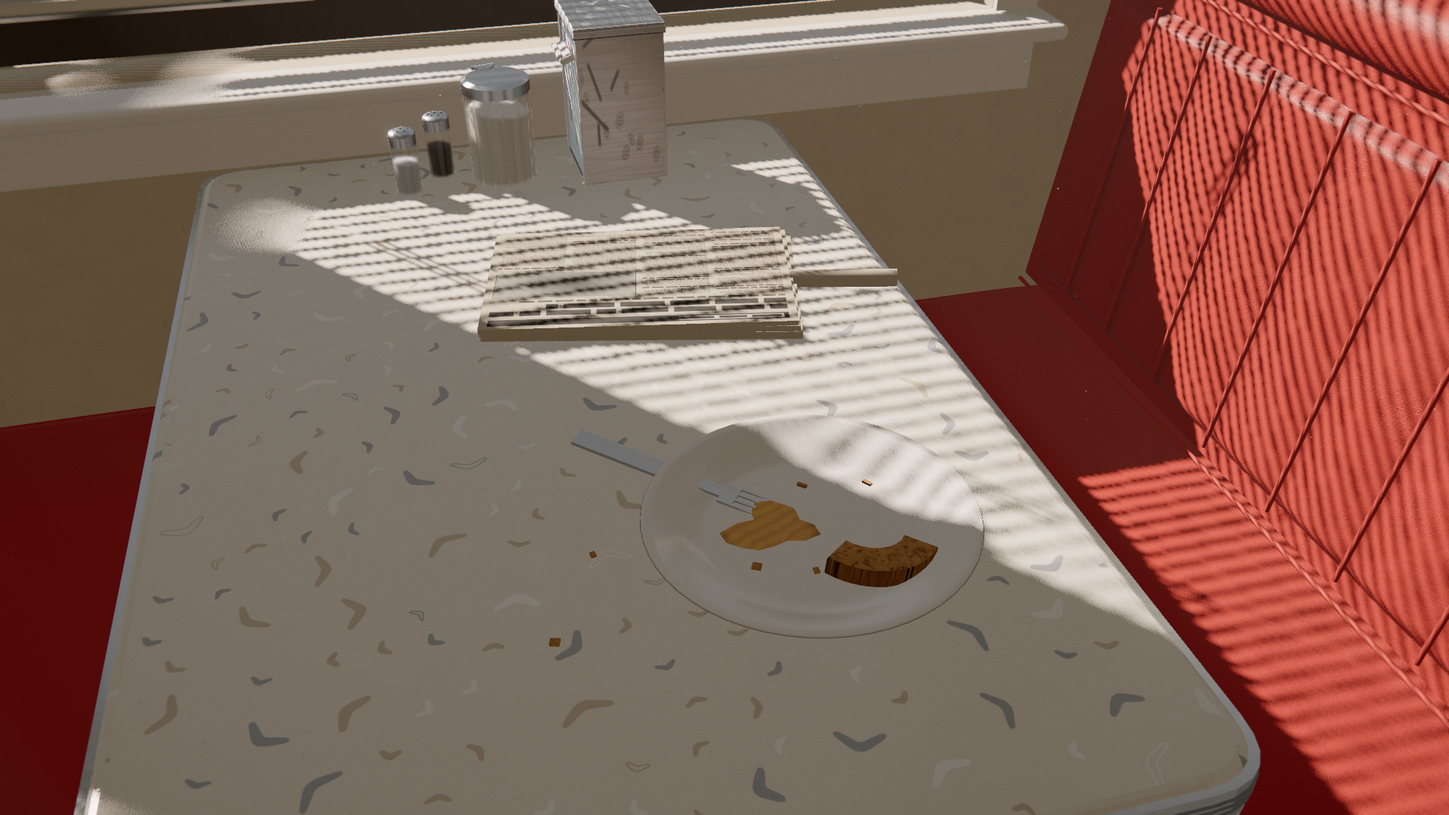
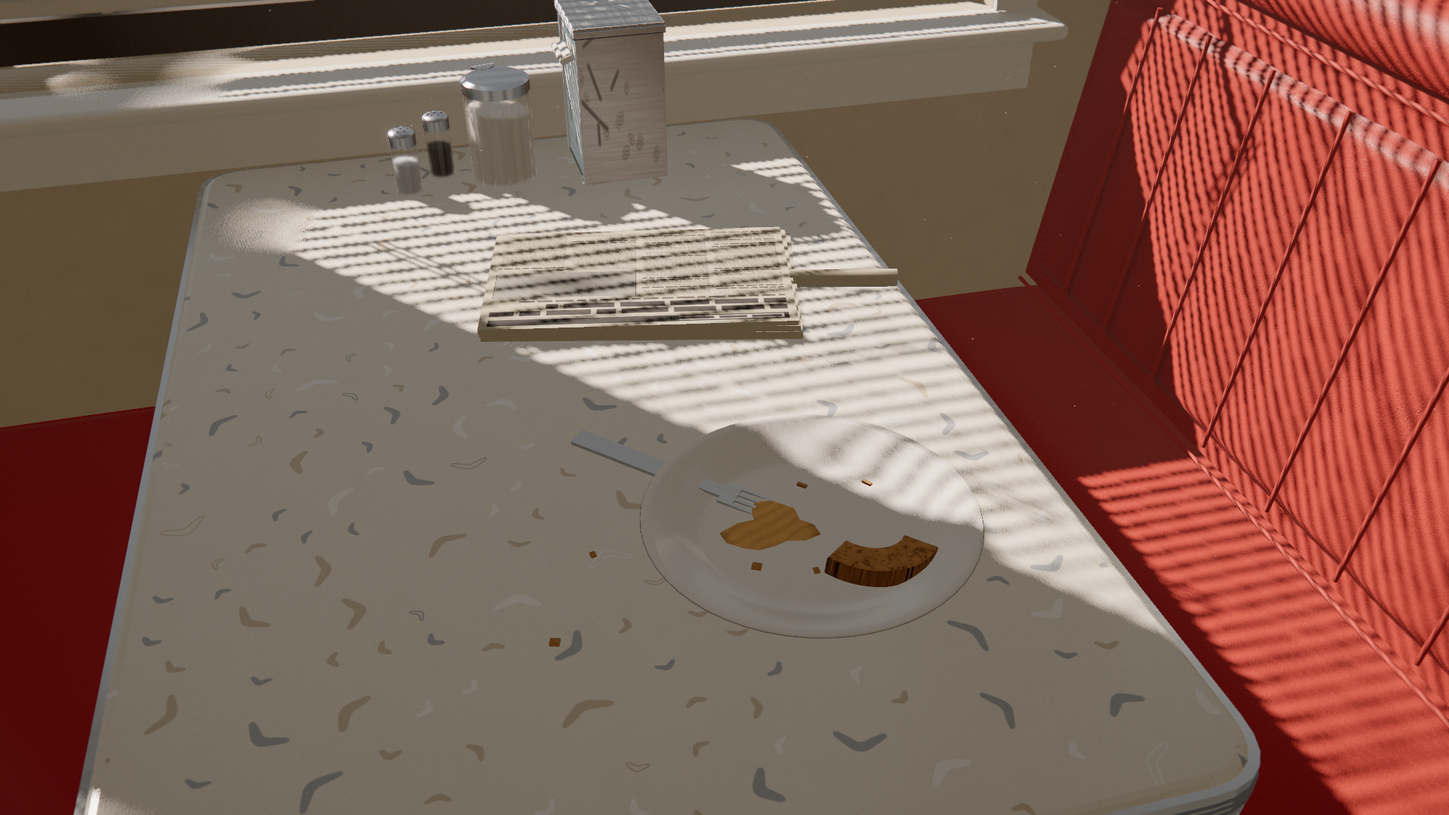
sys9: draw-call budget (6 own meshes: kitchen leaf single-bucket, lipstick via atlas strip, hosted band/foot), cabinet reveal + chrome pulls, kitchen-door velocity-continuous release, ragged apron blots, capture cameras, BUILD.md System 9 section/status/lessons, frames

diff --git a/src/scene/Openables.ts b/src/scene/Openables.ts
@@ -7,9 +7,11 @@
  * behind the kitchen door — goes into the shared `statics` builder and is appended to
  * the scene's existing material buckets (core/mergeInto.ts), so it costs no draw calls.
  * Only the leaves are their own meshes, each hung on a hinge Group the interactions
- * rotate: a laminate slab + chrome wire pull per cabinet door, and two for the kitchen
- * leaf (vertex-coloured paint + dark lite, and the stainless plates). A 4 mm dark reveal
- * on the die face frames the cabinet pair so it reads in the flat service-side light.
+ * rotate: a laminate slab + chrome wire pull per cabinet door, and one vertex-coloured
+ * mesh for the kitchen leaf (paint, dark lite, grey plates, dark pivots) — six own draw
+ * calls in all (twelve in poses where the transmission pass draws the opaques twice).
+ * A 4 mm dark reveal on the die face frames the cabinet pair so it reads in the flat
+ * service-side light.
  *
  * Hinge conventions (rotation.y, radians, positive = the leaf's free edge toward -z):
  *   cabinet left   hinge at the bay's -x edge, leaf along +x, opens toward the aisle (+z) → NEGATIVE angles
@@ -118,7 +120,7 @@ function buildCabinet(parent: THREE.Group, pal: Palette, s: MergedBuilder): [Hin
     const top = shelfY + t;
     s.rbox(pal.napkin, [bx - bw / 2, top, bz - bd / 2], [bx + bw / 2, top + bh, bz + bd / 2], 0.002);
     // Printed band and a brown "coffee filters" block on the front face, 0.5 mm proud.
-    s.box(pal.orangeBand, [bx - bw / 2 - 0.0005, top + 0.045, bz - bd / 2 - 0.0005], [bx + bw / 2 + 0.0005, top + 0.075, bz + bd / 2 + 0.0005]);
+    s.box(pal.darkSeal, [bx - bw / 2 - 0.0005, top + 0.045, bz - bd / 2 - 0.0005], [bx + bw / 2 + 0.0005, top + 0.075, bz + bd / 2 + 0.0005]);
     s.box(pal.trayBrown, [bx - 0.06, top + 0.09, bz + bd / 2], [bx + 0.06, top + 0.125, bz + bd / 2 + 0.0006]);
     // Filters: a squat fluted cylinder standing proud of the open top.
     const filters = new THREE.CylinderGeometry(0.058, 0.05, 0.05, 36, 1, false);
@@ -222,22 +224,28 @@ function buildKitchenDoor(parent: THREE.Group, pal: Palette, s: MergedBuilder): 
   const port = new THREE.BoxGeometry(vw, vh, 0.044);
   port.translate(cx, vy, 0);
   b.add(tint(port, 0x17181a), leafMat);
-  // Stainless: lite frame both faces, 8" kick plates both faces, push plates at 0.9 m both faces.
-  const st = pal.stainless;
+  // Lite frame both faces, 8" kick plates both faces, push plates at 0.9 m both faces — all in
+  // the leaf's vertex-coloured material (a light satin grey reads as the aluminium plates from
+  // the aisle; a real stainless bucket would be a second draw call on a moving mesh).
+  const plate = (a: readonly [number, number, number], c: readonly [number, number, number]) => {
+    const g = new THREE.BoxGeometry(c[0] - a[0], c[1] - a[1], c[2] - a[2]);
+    g.translate((a[0] + c[0]) / 2, (a[1] + c[1]) / 2, (a[2] + c[2]) / 2);
+    b.add(tint(g, 0xc4c8cc), leafMat);
+  };
   const vf = 0.02;
   for (const [za, zb] of [[-0.024, -0.02], [0.02, 0.024]] as const) {
-    b.rbox(st, [cx - vw / 2 - vf, vy - vh / 2 - vf, za], [cx + vw / 2 + vf, vy - vh / 2, zb], 0.001);
-    b.rbox(st, [cx - vw / 2 - vf, vy + vh / 2, za], [cx + vw / 2 + vf, vy + vh / 2 + vf, zb], 0.001);
-    b.rbox(st, [cx - vw / 2 - vf, vy - vh / 2, za], [cx - vw / 2, vy + vh / 2, zb], 0.001);
-    b.rbox(st, [cx + vw / 2, vy - vh / 2, za], [cx + vw / 2 + vf, vy + vh / 2, zb], 0.001);
-    b.rbox(st, [0.03, 0.03, za], [w - 0.03, 0.233, zb], 0.001);
-    b.rbox(st, [0.05, 0.9, za], [w - 0.05, 0.96, zb], 0.001);
+    plate([cx - vw / 2 - vf, vy - vh / 2 - vf, za], [cx + vw / 2 + vf, vy - vh / 2, zb]);
+    plate([cx - vw / 2 - vf, vy + vh / 2, za], [cx + vw / 2 + vf, vy + vh / 2 + vf, zb]);
+    plate([cx - vw / 2 - vf, vy - vh / 2, za], [cx - vw / 2, vy + vh / 2, zb]);
+    plate([cx + vw / 2, vy - vh / 2, za], [cx + vw / 2 + vf, vy + vh / 2, zb]);
+    plate([0.03, 0.03, za], [w - 0.03, 0.233, zb]);
+    plate([0.05, 0.9, za], [w - 0.05, 0.96, zb]);
   }
-  // Pivots: top and bottom on the hinge stile.
+  // Pivots: top and bottom on the hinge stile (dark, same bucket).
   for (const y of [0.05, h - 0.06]) {
     const piv = new THREE.CylinderGeometry(0.012, 0.012, 0.06, 16);
     piv.translate(0.006, y, 0);
-    b.add(piv, pal.darkMetal);
+    b.add(tint(piv, 0x2b2b2d), leafMat);
   }
   b.build(hinge, { name: "kitchen-door" });
   parent.add(hinge);

diff --git a/src/scene/Presence.ts b/src/scene/Presence.ts
@@ -56,7 +56,7 @@ export function buildPresence(statics: MergedBuilder, pal: Palette, bank?: Textu
   const apron = buildApron(statics, pal, cloth);
   const cardigan = buildCardigan(statics, pal, cloth);
   const plate = buildPlateAndPaper(statics, pal, cloth);
-  const cup = buildLipstickCup(statics, pal);
+  const cup = buildLipstickCup(statics, pal, cloth);
   return { material: cloth, points: { apron, cardigan, plate, cup } };
 }
 
@@ -392,7 +392,7 @@ function buildPlateAndPaper(s: MergedBuilder, pal: Palette, cloth: THREE.Materia
 /* Lipstick cup                                                                           */
 /* ------------------------------------------------------------------------------------ */
 
-function buildLipstickCup(s: MergedBuilder, pal: Palette): THREE.Vector3 {
+function buildLipstickCup(s: MergedBuilder, pal: Palette, cloth: THREE.Material): THREE.Vector3 {
   const x = STOOL.centersX[2], z = PROPS.saucerZ, y = COUNTER.height;
   const saucer = new THREE.LatheGeometry(
     [V2(0, 0.003), V2(0.03, 0.003), V2(0.033, 0), V2(0.045, 0), V2(0.05, 0.005), V2(0.072, 0.014), V2(0.078, 0.018), V2(0.074, 0.019), V2(0.052, 0.011), V2(0.042, 0.008), V2(0, 0.008)],
@@ -418,9 +418,10 @@ function buildLipstickCup(s: MergedBuilder, pal: Palette): THREE.Vector3 {
     g.translate(x, my, z);
     s.add(g, pal.ceramic);
   }
+  // Foot ring in the cup's own ceramic (the mugs' bisque ring lives on the InstancedMesh — no bucket to join).
   const foot = new THREE.LatheGeometry([V2(0.024, 0.0002), V2(0.026, 0), V2(0.031, 0), V2(0.0315, 0.003), V2(0.0235, 0.003), V2(0.024, 0.0002)], 40);
   foot.translate(x, my, z);
-  s.add(foot, pal.bisque);
+  s.add(foot, pal.ceramic);
   // Two centimetres of coffee left, gone still.
   const coffee = new THREE.CircleGeometry(0.0318, 40);
   coffee.rotateX(-Math.PI / 2);
@@ -432,6 +433,14 @@ function buildLipstickCup(s: MergedBuilder, pal: Palette): THREE.Vector3 {
   mark.rotateX(-Math.PI / 2);
   mark.rotateY(yaw + Math.PI - 0.27);
   mark.translate(x, my + 0.0885, z);
-  s.add(mark, pal.vinylRed);
+  // Sampled from the atlas's flat lipstick strip, so the mark rides in the presence bucket.
+  const lu = (PRESENCE_UV.lipstick[0] + PRESENCE_UV.lipstick[2]) / 2, lv = (PRESENCE_UV.lipstick[1] + PRESENCE_UV.lipstick[3]) / 2;
+  const muv = new Float32Array(mark.attributes.position.count * 2);
+  for (let i = 0; i < muv.length; i += 2) {
+    muv[i] = lu;
+    muv[i + 1] = lv;
+  }
+  mark.setAttribute("uv", new THREE.BufferAttribute(muv, 2));
+  s.add(mark, cloth);
   return new THREE.Vector3(x, my + 0.05, z);
 }

diff --git a/src/procedural/presence.ts b/src/procedural/presence.ts
@@ -30,7 +30,9 @@ export const PRESENCE_UV = {
   knit: [0.5, 0.5, 1.0, 1.0],
   newsprint: [0.0, 0.0, 0.5, 0.5],
   toast: [0.5, 0.0, 0.75, 0.5],
-  yolk: [0.75, 0.0, 1.0, 0.5],
+  yolk: [0.75, 0.0625, 1.0, 0.5],
+  /** Flat waxy lipstick red (the cup's rim mark samples its centre) — keeps the mark in this bucket. */
+  lipstick: [0.75, 0.0, 1.0, 0.0625],
 } as const satisfies Record<string, readonly [number, number, number, number]>;
 
 function canvas(w: number, h: number) {
@@ -239,9 +241,15 @@ export function presenceAtlas(size = 1024): PresenceSet {
           px(X, Y, r, g, b);
           rough[Y * S + X] = 0.92;
           height[Y * S + X] = 0.6 - 0.6 * pore + 0.15 * (crumb(u, v) - 0.5);
+        } else if (y >= R - R / 8) {
+          // Lipstick strip (bottom 1/8 of the yolk column): waxy red, flat, semi-gloss.
+          const n = yolkN(x / R + 3, y / R);
+          px(X, Y, 0.6 + 0.05 * (n - 0.5), 0.07, 0.1);
+          rough[Y * S + X] = 0.42;
+          height[Y * S + X] = 0.5;
         } else {
           // Yolk: a dried smear — deep yellow, darker skin at the edge, a couple of streaks.
-          const u = (x - half) / half, v = y / R;
+          const u = (x - half) / half, v = y / (R - R / 8);
           const n = yolkN(u, v);
           const edge = clamp01(Math.max(Math.abs(u - 0.5), Math.abs(v - 0.5)) * 2 - 0.7) / 0.3;
           const streak = clamp01(Math.sin((u * 3 + v * 7 + n) * Math.PI * 2) * 0.5 + 0.2) * 0.25;

diff --git a/BUILD.md b/BUILD.md
@@ -55,8 +55,17 @@ src/
                           directional lot sun, troffer / window / floor-bounce RectAreaLights, sky
                           dome scaled to nits), `installShadowMasks` (per-light caster lists,
                           shadow-once), `buildContactShadows()` (multiply decals)
-  player/FirstPerson.ts   pointer-lock look, WASD at 1.4 m/s, eye 1.62 m, AABB sliding collision
+    Openables.ts          System 9: under-counter cabinet bay (carcass, shelf, saucers, filters, spray
+                          bottle; two overlay laminate leaves on hinge Groups with chrome pulls) and the
+                          kitchen swing-door leaf + dim vestibule (Shell.ts keeps the casings only)
+    Presence.ts           System 9 implied presence: apron on a hook, cardigan over a stool, half-finished
+                          plate + folded newspaper (booth 2), lipstick cup — lofts + lathes on the
+                          `presenceAtlas` material, statics merged into existing buckets
+    Sys9.ts               buildSystem9(): the two above → one statics builder → core/mergeInto.ts
+  player/FirstPerson.ts   pointer-lock look, WASD at 1.4 m/s (Shift 2.6), Space hop, eye 1.62 m, AABB sliding collision
   core/
+    mergeInto.ts          mergeIntoHosts(): append a MergedBuilder's buckets to existing same-material
+                          meshes (no new draw calls); unmatched materials become their own meshes
     materials.ts          shared material palette: vinyl (plain + crazed), boomerang / speckle
                           Formica, solid cap wood vs two woodgrain laminates, chrome (r 0.08),
                           anisotropic brushed stainless, ceramic, glass, coffee; System 5 refines
@@ -77,6 +86,7 @@ src/
                           concrete, vinyl micro-grain + crazing (normal/roughness only), boomerang
                           and speckle laminate, wood grain (map/rough/normal), glaze speckle,
                           brushed-metal roughness, prismatic lens normal
+    presence.ts           System 9 atlas: cotton canvas, knit, newsprint, toast/yolk, lipstick strip
     exterior.ts           System 3 canvases: lot surface (drift, tyre-polish, sealcoat patches,
                           alligator + long cracks, oil drips, faded/re-striped stalls) + aggregate
                           normal/roughness, glass dust/wipe/handprint roughness + handprint alpha,
@@ -1019,15 +1029,16 @@ src/audio/wiring.ts   createDinerAudio() with the warmer at the brewer's lower p
 ```
 
 Controls: E (F, or click under pointer lock) on the highlighted target. Reach:
-benches 1.4 m, mug 1.25 m, door 1.4 m; look cone 22–30° half-angle.
+benches 1.4 m, mug 1.25 m, door 1.4 m, cabinet doors 1.5 m, kitchen door 1.6 m (System 9);
+look cone 22–30° half-angle.
 System 9 keys (`src/player/FirstPerson.ts`, feature 5): **WASD / arrows** walk 1.4 m/s;
 **Shift** walk fast (2.6 m/s, 0.2 s blend in/out, same 0.15 / 0.12 s accel/decel *times*,
 head-bob 1.8 → 2.4 Hz phase and 1.4 → 2.2 cm p-p with speed); **Space** a hop (0.32 m apex,
 g = 9.81, 0.51 s in the air, 2 cm landing dip over 0.15 s + `sfx.footfall`; one hop per
 press, no bunny-hop on a held key); **E** the prompt action (interact / sit / pour / open —
 "Stand" when seated); **Q** stand up. Shift and Space are refused while seated (controller
-disabled by Sit) and mid-interaction (`player.blocked()`: pouring, or standing in the door
-swing while the leaf cycles); a sprint in progress blends out. The hop and the bob are camera
+disabled by Sit) and mid-interaction (`player.blocked()`: pouring, drinking, or standing in the
+door swing while the leaf cycles); a sprint in progress blends out. The hop and the bob are camera
 offsets only — `position.y`, the colliders and `setPose()` never see them, and both are
 exactly 0 at rest. The loader shows the keys under "Click to enter".
 
@@ -1038,8 +1049,9 @@ Debug / capture API (`src/interactions/debug.ts`, on `window`):
 | `__interact("sit" \| "pour" \| "door")` | run the interaction live (sit picks the nearest bench; `{booth, side}` as 3rd arg) |
 | `__interact(name, t)` | seek to `t` seconds into that interaction and freeze the clocks (silent) |
 | `__interact("stand" \| "resume" \| "reset")` | stand up / unfreeze / everything back to rest |
-| `__interactPose("sit-seated" \| "pour-mid" \| "pour-full" \| "door-open")` | state + camera for `tools/shoot.mjs` |
-| `__interactions` | the live object: `.sit.state`, `.pour.state`, `.door.progress`, `.door.angleDeg`, `.target`, `.audio.state()`, `.startAudio()` |
+| `__interact("drink" \| "cabinet" \| "cabinet-right" \| "cabinet-close" \| "kitchen-door", t?)` | System 9: drink (1.6 s; a seek fills the mug first), toggle the left / right cabinet door (`t` seeks the 0.8 s opening), close the left door (`t` seeks the 0.75 s closing), push the kitchen door (`t` seeks the 2.8 s cycle) |
+| `__interactPose("sit-seated" \| "pour-mid" \| "pour-full" \| "door-open" \| "drink-sip" \| "cabinet-open" \| "kitchen-door-open" \| "kitchen-door-back")` | state + camera for `tools/shoot.mjs` |
+| `__interactions` | the live object: `.sit.state`, `.pour.state`, `.pour.fill`, `.door.progress`, `.door.angleDeg`, `.drink.state`, `.cabinet[0..1].{state,angleDeg}`, `.kitchenDoor.{busy,angleDeg}`, `.target`, `.audio.state()`, `.startAudio()` |
 | `__player` | the `FirstPerson` controller (harness feel checks: `.position`, `.camera`, `.setPose`, `.keys` (a `Set` of key codes — add `"KeyW"` / `"ShiftLeft"` / `"Space"` and call `.update(dt)`), `.speed`, `.sprintAmount`, `.inAir`, `.jumpHeight`, `.blocked`) |
 
 Poses (`tools/shoot.mjs --tag=sys7 --poses=sit-seated,pour-mid,pour-full,door-open`,
@@ -1305,6 +1317,124 @@ lazily, once).
 - **Scene cost is the elephant.** The scene pass is 6–11 ms at 1080p before any post; MSAA and the whole post chain together add ≈ 2.6 ms. System 4/5 should look at the shadow-map pass and draw-call count before worrying about post. (Post-merge bench: post total 1.35–1.41 ms at `beam` / `length` / `window` — haze 1.00, composite 0.10, bloom 0.15–0.17, finish 0.13–0.14 — unchanged; the scene numbers that run (7.3 / 12.5–13.4 / 25 ms) were taken while other worktrees were shooting on the same GPU and are not a measurement.)
 - **A scene can have more than one shadow-casting "sun".** `findSun()` looked for the first shadow-casting DirectionalLight; after the two-sun split that is the *lot* light, whose map never sees the room — every mote would have read "lit" (or "shadowed" by the cone). Take the light from `Diner` rather than searching the graph, and keep the search as a typed fallback only.
 
+## System 9 — extended interactions and implied presence (`sys9-interactions`)
+
+Five features, all in new files hooked into the existing ones by a few lines each:
+`scene/Sys9.ts` (one call in `Diner.build` after `buildProps`), `interactions/Openables.ts`
++ `Drink.ts` (registered in `interactions/index.ts`), `audio/ambience/Kitchen.ts` + `sfx/Player.ts`
++ `sfx/Openables.ts` (positions + entries in `audio/index.ts`), `player/FirstPerson.ts` (feature 5).
+Frames: `shots/sys9-sys9-{apron,cardigan,plate,cup,cabinet,cabinet-open,kitchen-door,kitchen-door-open,kitchen-door-back}.png`,
+sheets `shots/sys9-seq-{drink,cabinet,cabinet-close,kitchen-door}.png` + key frames.
+
+**1 · Drink the coffee** (`interactions/Drink.ts`; hooks in `Pour.ts`: `fill`, `setFill`, `levelFor`,
+steam scale). Once the mug holds more than `EMPTY_FILL` (15 %) the mug's target is "Drink"
+instead of "Pour". 1.6 s from E in four beats: 0.22 s reach (nothing moves, hint fades) →
+0.5 s lift on a quadratic arc up and in to a point low-right of the lens (camera-attached, so
+looking around carries the mug) → 0.43 s sip: the mug closes to 0.21 m and tips 20–45° (enough
+to bring the surface to the rim for the level it starts at, plus a few degrees), the head
+tilts back 4° with 1.5° roll (`player.lean`), the level falls by ⅓ of a mug between 0.82 and
+1.08 s through the pour's volume LUT, the rim steam scales with the level, `sfx.sip` at 0.78 →
+0.45 s set-down, decelerating, quiet clink. The liquid disc is counter-rotated each frame to
+stay world-horizontal and slid to the low side, so it reads as liquid in a tilted mug. Three
+sips empty a full mug (1 → 0.667 → 0.333 → 0); below 15 % "Pour" is offered again and a pour
+tops it up. Movement locked and `blocked()` true for the 1.6 s. `__interact("drink", t)` seeks
+(filling the mug first if empty); `drink-sip` pose.
+
+**2 · Openables** (`scene/Openables.ts` geometry, `interactions/Openables.ts` motion).
+*Cabinet*: `BACK_BAR.cabinet` = a 1.0 m bay under the brewer that `Counter.ts` now leaves open
+(one entry in its `openings` list; the laminate bay gets no stainless face frame). Carcass, shelf,
+stacked saucers, an open box of filters, a paper-towel roll and a spray bottle are static and go
+into existing buckets; two overlay laminate doors (8 mm lap, 2.5 mm arris) each hang on their own
+hinge Group with a chrome wire pull, and a 4 mm dark reveal on the die face frames the pair so it
+reads as doors in the flat service-side light (head-on it was invisible — the grain runs through).
+One press toggles: open = 0.2 s reach, catch `release` tick, 0.6 s swing to 95° — quick off the
+catch, the damper takes the last quarter, a 1.5° overshoot settles (soft stop); close = 0.15 s
+reach, shove to 20°, damper to 3°, the magnetic catch pulls the last 3° home with a `close`
+click at 0.75 s. *Kitchen door*: `Shell.ts` keeps only the casings; the leaf (0.9 × 2.1 m, paint +
+dark lite + grey plates + pivots, one vertex-coloured mesh) is pushed from the dining room:
+0.2 s reach → 0.5 s ease-out to 90° into the kitchen (push thud + frame-pass whoosh) → released
+from rest, θ = 90°·e^(−2τ)·(cos 4.6τ + 0.43 sin 4.6τ): through the frame at 0.43 s to −23° into
+the dining room, through again to +6°, once more, the check blends the last 0.3 s to rest —
+2.8 s in all, a whoosh on each pass scaled by angular speed, a bumper thud on the settle. Behind
+it a dim vestibule in the pass-through's `kitchenDim` (walls, floor, a wire shelving silhouette,
+a mop bucket) with two `rockerLit` glow strips — no lights. Both are shadow-once: `consumeSettled()`
+is true exactly once when a leaf comes to rest and `index.ts` calls `invalidateShadows()` then, not
+per frame. Neither blocks sprint/jump (the player does not move). Reach 1.5 / 1.6 m — the service
+aisle is walkable round the L-return, so both are reachable on foot.
+
+**3 · Implied presence** (`scene/Presence.ts`, `procedural/presence.ts`). One 1024² atlas
+(`presenceAtlas`, registered in `SHAPES`/`texWorker`; map + roughness + normal) holds four
+materials — 2/1 basket-weave cotton canvas with hand-wipe grime and two ragged coffee blots,
+rust stockinette knit, an aged newsprint page (masthead, rules, columns, a halftone photo), toast
+crumb + dried yolk — plus a flat lipstick-red strip, so every soft prop is one `presence` bucket.
+The apron hangs from a hook by the pass-through: a 20 × 32 loft of six catenary pleats opening
+toward the hem, gathered waistband, straps; the cardigan is a lofted mound over stool 6's seat
+with a rolled collar, a sleeve hanging down the front and three buttons; booth 2 has a plate
+(lathe) with a bitten toast crust (extruded, UV'd to the toast tile), a yolk smear, a fork and
+crumbs, and a folded newspaper (three lofted leaves over a fold, newsprint on both faces); the
+cup on the saucer at stool 3 keeps 2 cm of cold coffee and a lipstick crescent on the rim opposite
+the handle. Everything static is appended into the scene's existing material buckets by
+`core/mergeInto.ts` (`mergeIntoHosts`: find a non-instanced `name:material` mesh with the same
+material, merge geometries, recompute bounds) — 9 buckets hosted, 0 new draw calls for the
+statics.
+
+**4 · Kitchen presence audio** (`audio/ambience/Kitchen.ts`, positions `kitchenSink` / `kitchenRadio`
+just behind the pass-through opening). Muffled talk murmur (pink noise through a wandering
+320–700 Hz band-pass and a 900 Hz low-pass ×2, a 3.5–5.5 Hz syllabic envelope inside 1.5–4 s
+phrases with 0.6–2.5 s gaps, a lower "cook" register answering 30 % of the time — no formants,
+never a word), dish clusters (2–5 inharmonic ceramic contacts low-passed at 3.8 kHz + a cutlery
+tinkle, every 20–60 s), the tap running 3–6 s (stream hiss + splash burble + valve onset + drips,
+every 20–60 s). Harness (`tools/audio-harness.mjs`, `kitchen` bus, 40 s): **−48.2 LUFS at the
+counter** (service aisle at the brewer, 1.7 m), −51.4 aisle centre, −56.6 at the door; the aisle
+bed is −36.1 LUFS (was −36.2). One-shots (`--scenario=sys9`, 1.2 m from the cabinet, 3.9 m
+from the kitchen door): footfall −28.6 dBFS, sip −32.1, catch release −31.0 / close −20.6,
+kitchen-door push −30.6 / pass −32.9 / settle −26.5; no discontinuities.
+
+**5 · Player controls** (`player/FirstPerson.ts`; keys documented under System 7 "Controls" and in
+the loader). Shift blends the top speed 1.4 → 2.6 m/s over 0.2 s with the same accel/decel
+times, head-bob 1.8 → 2.4 Hz and 1.4 → 2.2 cm p-p with speed; Space is one 0.32 m hop under
+9.81 (0.51 s), 2 cm landing dip over 0.15 s + `sfx.footfall`; E is the prompt action, Q (or E
+seated) stands. Both refused seated and mid-interaction (`blocked()`: pouring, drinking, in the
+door swing). Harness (live `__player.keys` + `update()`): walk 1.4 at 0.15 s; sprint 1.45 → 2.6
+over 0.2 s, release 2.55 → 1.4 over 0.2 s; bob p-p 1.39 / 2.08 cm walk / sprint, **0 at rest**
+and after stopping; apex 0.320 m, flight 0.508 s, dip −2.0 cm at 67 ms, 0 at 150 ms, one footfall;
+collision holds mid-hop; blocked → speed 1.4 / sprint 0 / apex 0; seated → speed 0, camera still.
+
+**Verification.** `tsc --noEmit` and `npm run build` clean. Live openables harness 17/17
+(target pick from the aisle, anticipation beat, 95° at 0.8 s, label flips to "Close", closed at
+0.75 s, other door untouched, kitchen door 90.0° → −23.0° → 3 frame passes → rest by 3 s,
+`blocked()` false during a swing, seeks deterministic); drink harness (3 sips → empty → Pour
+re-armed → refill; seeks deterministic). **Draw calls vs `origin/main` (same build, same GPU,
+other agents shooting):** boot 179 → 183 (+4), `door` 197 → 197, `aisle` 265 → 269 (+4),
+`warmer` 217 → 225 (+8), `counter` 263 → 273 (+10), `length` 306 → 316 (+10) — six own meshes
+(two cabinet leaves × {laminate, chrome}, the kitchen leaf, the presence bucket), doubled where
+the transmission pass draws the opaques twice. Triangles 1.220 → 1.225 M. Boot 33.7 → 34.2 s
+under the same contention (+0.5 s, within the run-to-run noise of a shared GPU). `tools/gpu.mjs`
+passes.
+
+### Lessons
+- **"Merge into the existing buckets" needs a host.** Palette materials that only live on an
+  `InstancedMesh` (the mugs' `bisque` foot ring), on a per-prop clone (`vinylRed` on the booths
+  is a different instance) or nowhere yet (`orangeBand`) have no mesh to join, and each became
+  its own draw call — the probe (traverse for meshes under `sys9`) found 11 where the design said
+  6. Check the host list before choosing a material; when there is none, paint the colour into
+  an atlas you already own (the lipstick strip) or pick a hosted neighbour.
+- **Transmission doubles every opaque draw.** With glass in view the renderer draws the opaque
+  list twice, so a "+6 meshes" budget line reads as +12 in `counter`/`length`. Budget own
+  meshes, not draw calls, and measure at the transmissive poses.
+- **A door you cannot see is a wall.** Overlay doors in the same laminate as the die, lit flat
+  from the service side, were invisible in the frame (the grain ran straight through). What
+  made them read was not geometry but a shadow gap — a 4 mm dark reveal — plus a pull.
+- **Release a swing door from rest.** `θ = A·e^(−λτ)·cos ωτ` has velocity −λA at τ = 0, a
+  visible kick after an ease-out push; the `(cos + λ/ω·sin)` form starts at zero velocity and
+  the hand-over is continuous. Blend the last 0.3 s to zero rather than cutting at an envelope
+  threshold (a 1.5° cut is 23 mm at the free edge).
+- **Seek before the timeline exists.** `drink.seek(t)` on an empty mug is meaningless; the
+  debug seek fills it first (`pour.seek(6)`), and the harness must do the same or the results
+  are order-dependent.
+- **Harness time is float.** Stepping `0.8 s` as 96 × 1/120 lands at 0.79999; a state that
+  flips at exactly `end` reads one frame late. Step past the end by a frame.
+
 ## System status
 
 | # | System | Status |
@@ -1317,6 +1447,7 @@ lazily, once).
 | 6 | Sound design | **built, rev 3** (section above) — 100 % synthesised: AM-radio speech rhythm, AC drone + rattle, fan whoosh, warmer ticks/gurgle, room tone; pour / clink / door one-shots and the exterior heat wall. Rev 3 measured the live mix at six listener poses (BS.1770 LUFS per bus) and re-levelled it: aisle bed −36.2 LUFS, room −44.5, AC / fan / radio −35 / −39 / −33 at 1 m, warmer near-field; pour lands with the stream, clinks −12 dBFS, heat wall −26 LUFS with an equal-power swell, room ducks 3 dB while the door is open, latch on close |
 | 7 | The 3 interactions (sit, pour coffee, open door) | **built, rev 2 — feel polish** (`shots/sys7-seq-{sit,pour,door,door-ext}.png` time-series sheets + 18 key frames from `tools/sequence.mjs`; anticipation beats, arced/tilting pour with continuity-thinning stream, drips and volume-true fill, closer-profile door with hold-while-in-doorway and latch SFX, four-beat sit with lean and cushion settle, System 8 `SteamEmitter` reused (duplicate `interactions/Steam.ts` deleted), first-pour 0.7 s link hitch removed; player accel/decel 0.15/0.12 s, 1.4 cm head-bob, push-out collision that slides round stool bases — see "System 7 rev 2" above). Rev 1 was: (merged into `main` over the loader + System 3 rev 2: shadow-once invalidation on door/pour, audio on the loader's enter click, pour programs pre-issued) — `src/interactions/*` + `src/audio/wiring.ts` (System 6 wired: gesture start, positional beds, pour/clink/door SFX, exterior crossfade). Frames `shots/sys7-{sit-seated,pour-mid,pour-full,door-open}.png`; 23/23 live Playwright checks; update ≈ 0.01 ms; +6 draw calls only while pouring |
 | 8 | Post-processing and final polish | **built, rev 1** (`src/post/`, section above), merged with the loader + System 3 rev 2 (spot sun, shadow-once — see "Integration" above) — MSAA 4× scene target, sun-beam dust (5 k shadow-map-lit motes), half-res volumetric haze through the beam prisms, exterior-only heat shimmer, ambient decanter steam (`SteamEmitter`; System 7 rev 2's pour steam is a second instance of the same class), high-threshold bloom, CA 0.5 px, 0.3 EV vignette, corner softness, ACES/AgX/Neutral tone map, luminance-dependent procedural grain; ~1.3 ms post + ~1.3 ms MSAA at 1080p on the 4060; `?post=0` bypasses everything |
+| 9 | Extended interactions and implied presence | **built, rev 1** (branch `sys9-interactions`, section above; frames `shots/sys9-sys9-*.png`, sheets `shots/sys9-seq-{drink,cabinet,cabinet-close,kitchen-door}.png`) — drink from the mug (1.6 s camera-attached raise, ⅓ per sip, volume-true, steam with level, Pour re-arms under 15 %); openable cabinet doors (soft stop, magnetic catch SFX, shelf of saucers/filters/spray bottle) and a double-acting kitchen swing door (push to 90°, spring return with two decaying oscillations, dim vestibule, no lights), shadow-once at rest; implied presence — apron on a hook, cardigan over a stool, half-finished plate + folded newspaper in booth 2, lipstick cup at the counter — on one atlas material with the statics merged into existing buckets; kitchen presence audio (murmur, dishes, tap; −48 LUFS at the counter, aisle bed unchanged); Shift sprint / Space hop / E + Q keys. +4…+10 draw calls by pose, 6 own meshes |
 
 Known simplifications after System 3: no heat shimmer (System 8 post), no
 chain fence, the cars have no interiors (dark glass hides it at 10–30 m), the
